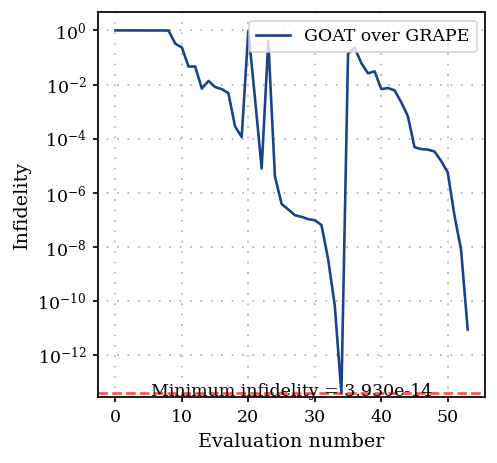
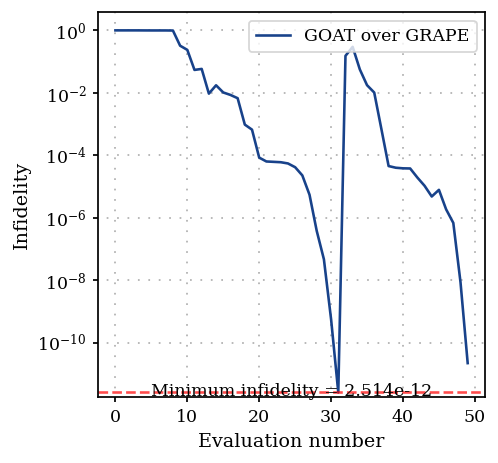
Fixed docstring warnings

diff --git a/docs/notebooks/08C_Bosonic_grape_with_smooth_pulses.rst b/docs/notebooks/08C_Bosonic_grape_with_smooth_pulses.rst
@@ -213,7 +213,7 @@ numbers.
             prop = ScipyExpmGRAPE(
                 eom_func=model.get_value,
                 eom_and_grad_func=model.get_value_and_gradient,
-                resolution= 1/(30e-9), 
+                resolution=1 / (30e-9),
                 initial_state=initial_state,
                 target_state=target_state,
                 operator_sandwich_function=grape_operator_sandwich_function_closed,
@@ -387,7 +387,7 @@ we can later use to plot the infidelity vs function evaluation.
 
     import tempfile
     
-    temp_dir = tempfile.TemporaryDirectory()
+    temp_dir = tempfile.TemporaryDirectory(suffix="pq") # Ends in 'pq' to prevent _ at the end
     print(f"Logging directory = {temp_dir.name}")
     
     max_iter = 200  # set to 1000 for a good result; set to 10 for a quick example
@@ -418,7 +418,7 @@ we can later use to plot the infidelity vs function evaluation.
 
 .. parsed-literal::
 
-    Logging directory = /tmp/tmp10tjo33i
+    Logging directory = /tmp/tmp6rh4l4fypq
 
 
 .. code:: ipython3
@@ -472,12 +472,12 @@ we can later use to plot the infidelity vs function evaluation.
 
 .. parsed-literal::
 
-    Iteration number = 100 	  Infidelity  = 6.999e-01
+    Iteration number = 100 	  Infidelity  = 5.446e-01
 
 
 .. parsed-literal::
 
-    Iteration number = 150 	  Infidelity  = 1.546e-01
+    Iteration number = 150 	  Infidelity  = 1.220e-01
 
 
 .. parsed-literal::
@@ -486,13 +486,13 @@ we can later use to plot the infidelity vs function evaluation.
     
     ==== Max iteration before a super-iteration reached ====
     ==== Starting super-iteration 2 ====
-    *** Current lowest infidelity =  0.081 ***
+    *** Current lowest infidelity =  0.075 ***
     * Current no. of parameters = 74
 
 
 .. parsed-literal::
 
-    Iteration number = 200 	  Infidelity  = 6.116e-01
+    Iteration number = 200 	  Infidelity  = 4.702e-01
 
 
 .. parsed-literal::
@@ -508,15 +508,15 @@ we can later use to plot the infidelity vs function evaluation.
 .. parsed-literal::
 
     Setting parameters to the best values.
-    CPU times: user 5min 17s, sys: 5.8 s, total: 5min 23s
-    Wall time: 58.5 s
+    CPU times: user 5min 15s, sys: 5.59 s, total: 5min 20s
+    Wall time: 56.9 s
 
 
 
 
 .. parsed-literal::
 
-    {'status': 2, 'value': 0.08078278897440028, 'iterations': 126, 'message': '`callback` raised `StopIteration`.'}
+    {'status': 2, 'value': 0.0745272167039045, 'iterations': 126, 'message': '`callback` raised `StopIteration`.'}
 
 
 
@@ -531,78 +531,78 @@ Lets set the optimization to the best parameters obtained during the run
 
 .. parsed-literal::
 
-    [Amplitude CRAB resonator: 2.97e+07,
-     CRAB Re coefficient 0: 0.747,
-     CRAB Re coefficient 1: -0.645,
-     CRAB Re coefficient 2: -0.4,
-     CRAB Re coefficient 3: 0.472,
+    [Amplitude CRAB resonator: -4.52e+07,
+     CRAB Re coefficient 0: -0.371,
+     CRAB Re coefficient 1: -0.918,
+     CRAB Re coefficient 2: -0.956,
+     CRAB Re coefficient 3: -0.999,
      CRAB Re coefficient 4: 0,
      CRAB Re coefficient 5: 0,
-     CRAB Re frequency 0: 1.63 Hz x 2pi,
-     CRAB Re frequency 1: 315 mHz x 2pi,
-     CRAB Re frequency 2: 884 mHz x 2pi,
-     CRAB Re frequency 3: 1.46 Hz x 2pi,
+     CRAB Re frequency 0: 159 mHz x 2pi,
+     CRAB Re frequency 1: 54.3 mHz x 2pi,
+     CRAB Re frequency 2: 813 mHz x 2pi,
+     CRAB Re frequency 3: 2 Hz x 2pi,
      CRAB Re frequency 4: 1 Hz x 2pi,
      CRAB Re frequency 5: 1 Hz x 2pi,
-     CRAB Re Phase 0: 2.95 rad,
-     CRAB Re Phase 1: -2.18 rad,
-     CRAB Re Phase 2: 2.64 rad,
-     CRAB Re Phase 3: -2.03 rad,
+     CRAB Re Phase 0: -2.87 rad,
+     CRAB Re Phase 1: -3.05 rad,
+     CRAB Re Phase 2: -2.69 rad,
+     CRAB Re Phase 3: 1.78 rad,
      CRAB Re Phase 4: 0 rad,
      CRAB Re Phase 5: 0 rad,
-     CRAB Im coefficient 0: -0.945,
-     CRAB Im coefficient 1: 0.591,
-     CRAB Im coefficient 2: -0.396,
-     CRAB Im coefficient 3: 0.0851,
+     CRAB Im coefficient 0: -0.925,
+     CRAB Im coefficient 1: 0.734,
+     CRAB Im coefficient 2: -0.955,
+     CRAB Im coefficient 3: 0.614,
      CRAB Im coefficient 4: 0,
      CRAB Im coefficient 5: 0,
-     CRAB Im frequency 0: 2 Hz x 2pi,
-     CRAB Im frequency 1: 1.82 Hz x 2pi,
-     CRAB Im frequency 2: 857 mHz x 2pi,
-     CRAB Im frequency 3: 956 mHz x 2pi,
+     CRAB Im frequency 0: 15 mHz x 2pi,
+     CRAB Im frequency 1: 2 Hz x 2pi,
+     CRAB Im frequency 2: 1.17 Hz x 2pi,
+     CRAB Im frequency 3: 1.4 Hz x 2pi,
      CRAB Im frequency 4: 1 Hz x 2pi,
      CRAB Im frequency 5: 1 Hz x 2pi,
-     CRAB Im Phase 0: 3.14 rad,
-     CRAB Im Phase 1: 2.51 rad,
-     CRAB Im phase 2: -2.01 rad,
-     CRAB Im phase 3: -2.49 rad,
+     CRAB Im Phase 0: -3.12 rad,
+     CRAB Im Phase 1: 2.34 rad,
+     CRAB Im phase 2: -1.15 rad,
+     CRAB Im phase 3: -403 mrad,
      CRAB Im phase 4: 0 rad,
      CRAB Im phase 5: 0 rad,
-     Amplitude CRAB qubit: 3.67e+04,
-     CRAB Re coefficient 0: 0.269,
-     CRAB Re coefficient 1: -0.951,
-     CRAB Re coefficient 2: 0.00838,
-     CRAB Re coefficient 3: 0.447,
+     Amplitude CRAB qubit: 4.46e+07,
+     CRAB Re coefficient 0: -0.0453,
+     CRAB Re coefficient 1: -0.996,
+     CRAB Re coefficient 2: 0.444,
+     CRAB Re coefficient 3: 0.353,
      CRAB Re coefficient 4: 0,
      CRAB Re coefficient 5: 0,
-     CRAB Re frequency 0: 1.85 Hz x 2pi,
-     CRAB Re frequency 1: 575 mHz x 2pi,
-     CRAB Re frequency 2: 1.37 Hz x 2pi,
-     CRAB Re frequency 3: 875 mHz x 2pi,
+     CRAB Re frequency 0: 2 Hz x 2pi,
+     CRAB Re frequency 1: 701 mHz x 2pi,
+     CRAB Re frequency 2: 701 mHz x 2pi,
+     CRAB Re frequency 3: 2 Hz x 2pi,
      CRAB Re frequency 4: 1 Hz x 2pi,
      CRAB Re frequency 5: 1 Hz x 2pi,
-     CRAB Re Phase 0: 3.02 rad,
-     CRAB Re Phase 1: -187 mrad,
-     CRAB Re Phase 2: -2.02 rad,
-     CRAB Re Phase 3: -1.15 rad,
+     CRAB Re Phase 0: 3.1 rad,
+     CRAB Re Phase 1: -1.1 rad,
+     CRAB Re Phase 2: 2.27 rad,
+     CRAB Re Phase 3: 1.77 rad,
      CRAB Re Phase 4: 0 rad,
      CRAB Re Phase 5: 0 rad,
-     CRAB Im coefficient 0: 0.631,
-     CRAB Im coefficient 1: -0.377,
-     CRAB Im coefficient 2: 0.126,
-     CRAB Im coefficient 3: 0.0534,
+     CRAB Im coefficient 0: 0.98,
+     CRAB Im coefficient 1: 0.112,
+     CRAB Im coefficient 2: 0.361,
+     CRAB Im coefficient 3: 0.475,
      CRAB Im coefficient 4: 0,
      CRAB Im coefficient 5: 0,
-     CRAB Im frequency 0: 1.7 Hz x 2pi,
-     CRAB Im frequency 1: 343 mHz x 2pi,
-     CRAB Im frequency 2: 1.01 Hz x 2pi,
-     CRAB Im frequency 3: 1.43 Hz x 2pi,
+     CRAB Im frequency 0: 691 mHz x 2pi,
+     CRAB Im frequency 1: 423 mHz x 2pi,
+     CRAB Im frequency 2: 169 mHz x 2pi,
+     CRAB Im frequency 3: 1.13 Hz x 2pi,
      CRAB Im frequency 4: 1 Hz x 2pi,
      CRAB Im frequency 5: 1 Hz x 2pi,
-     CRAB Im Phase 0: 1.37 rad,
-     CRAB Im Phase 1: -825 mrad,
-     CRAB Im phase 2: -1.77 rad,
-     CRAB Im phase 3: 93.8 mrad,
+     CRAB Im Phase 0: 192 mrad,
+     CRAB Im Phase 1: -84 mrad,
+     CRAB Im phase 2: -2.21 rad,
+     CRAB Im phase 3: -1.31 rad,
      CRAB Im phase 4: 0 rad,
      CRAB Im phase 5: 0 rad]
 
@@ -646,8 +646,8 @@ The new fidelities are
 
 .. parsed-literal::
 
-    Fidelity at N_T=3 = 0.8797824683718455
-    Fidelity at N_T=4 = 0.9127454209401749
+    Fidelity at N_T=3 = 0.909232385761665
+    Fidelity at N_T=4 = 0.8954490406957812
 
 
 For this small truncation number the dynamics and fidelities do not
@@ -865,7 +865,7 @@ Redefine the optmap and the optimizer and rerun the optimization
 
     import tempfile
     
-    temp_dir = tempfile.TemporaryDirectory()
+    temp_dir = tempfile.TemporaryDirectory(suffix="pq") # Ends in 'pq' to prevent _ at the end
     print(f"Logging directory = {temp_dir.name}")
     
     max_iter = 300  # set to 1000 for a good result; set to 10 for a quick example
@@ -884,8 +884,8 @@ Redefine the optmap and the optimizer and rerun the optimization
     opt = DCRABOptimizerGradient(
         measure_and_gradient_func=dcrab_goal.get_value_and_gradient,
         optimization_map=optmap,
-        super_iteration_every=100, 
-        max_super_iteration_num=3, # Increase the number of super iterations for a better result
+        super_iteration_every=100,
+        max_super_iteration_num=3,  # Increase the number of super iterations for a better result
         print_every_iteration_num=10,
         super_iteration_tol=1e-6,
         seed=8647,
@@ -896,12 +896,12 @@ Redefine the optmap and the optimizer and rerun the optimization
 
 .. parsed-literal::
 
-    Logging directory = /tmp/tmpjf8oyte_
+    Logging directory = /tmp/tmpg2wdoegrpq
 
 
 .. parsed-literal::
 
-    Implicitly cleaning up <TemporaryDirectory '/tmp/tmp10tjo33i'>
+    Implicitly cleaning up <TemporaryDirectory '/tmp/tmp6rh4l4fypq'>
 
 
 .. code:: ipython3
@@ -1114,8 +1114,8 @@ Redefine the optmap and the optimizer and rerun the optimization
 .. parsed-literal::
 
     Setting parameters to the best values.
-    CPU times: user 9h 46min 6s, sys: 3min 36s, total: 9h 49min 43s
-    Wall time: 12min 56s
+    CPU times: user 9h 45min 14s, sys: 3min 29s, total: 9h 48min 43s
+    Wall time: 12min 53s
 
 
 

diff --git a/docs/notebooks/02E_GOAToverGRAPE_dCRAB.rst b/docs/notebooks/02E_GOAToverGRAPE_dCRAB.rst
@@ -183,7 +183,7 @@ Here we add the parameters from the ``DCRABEnvelope`` to the ``optmap``
     from paraqeet.optimization_map import OptimizationMap
     from paraqeet.optimizers.dcrab_optimizer_gradient import DCRABOptimizerGradient
     
-    temp_dir = tempfile.TemporaryDirectory()
+    temp_dir = tempfile.TemporaryDirectory(suffix="pq") # Ends in 'pq' to prevent _ at the end
     
     file_logger = FileLogger(temp_dir.name)
     
@@ -238,23 +238,23 @@ coefficients for the optimization.
 
 .. parsed-literal::
 
-    Iteration number = 10 	  Infidelity  = 7.888e-06
-
-
-.. parsed-literal::
-
-    Iteration number = 20 	  Infidelity  = 3.930e-14
+    Iteration number = 10 	  Infidelity  = 6.307e-05
+    Iteration number = 20 	  Infidelity  = 2.514e-12
     
     
     ==== Decrease in infidelity less than 1e-09 ====
     ==== Starting super-iteration 1 ====
-    * Current lowest infidelity =  3.930e-14
+    * Current lowest infidelity =  2.514e-12
+
+
+.. parsed-literal::
+
     * Current no. of parameters = 25
 
 
 .. parsed-literal::
 
-    Iteration number = 30 	  Infidelity  = 1.497e-05
+    Iteration number = 30 	  Infidelity  = 4.763e-06
     Setting parameters to the best values.
 
 
@@ -267,7 +267,7 @@ coefficients for the optimization.
 
 .. parsed-literal::
 
-    {'status': 1, 'value': 3.930189507173054e-14, 'iterations': 35, 'message': 'CONVERGENCE: NORM OF PROJECTED GRADIENT <= PGTOL'}
+    {'status': 1, 'value': 2.5142110615661295e-12, 'iterations': 32, 'message': 'CONVERGENCE: NORM OF PROJECTED GRADIENT <= PGTOL'}
 
 
 

diff --git a/docs/notebooks/index.rst b/docs/notebooks/index.rst
@@ -8,7 +8,7 @@ New users are recommended to start with :doc:`01A_OptimizationMap`, :doc:`01B_Gr
 Fundamentals
 ------------
 
-- :doc:`01_OptimizationMap` — How parameters (``Quantity``) and the ``OptimizationMap`` connect a model to an optimizer.
+- :doc:`01A_OptimizationMap` — How parameters (``Quantity``) and the ``OptimizationMap`` connect a model to an optimizer.
 - :doc:`01B_Gradient_evaluation` - A walkthrough over gradient computation across the package.
 
 Single-qubit control
@@ -42,7 +42,7 @@ Building custom models
 ----------------------
 
 - :doc:`07A_Custom_Hamiltonian` — Plug a user-defined Hamiltonian function into ParaQeet.
-- :doc:`07B_Modelling_using_QuTiP` — Build the Hamiltonian using function and plug it into ParaQeet for optimization.
+- :doc:`07B_Modeling_using_QuTiP` — Build the Hamiltonian using function and plug it into ParaQeet for optimization.
 
 Bosonic systems and smoothness
 ------------------------------
